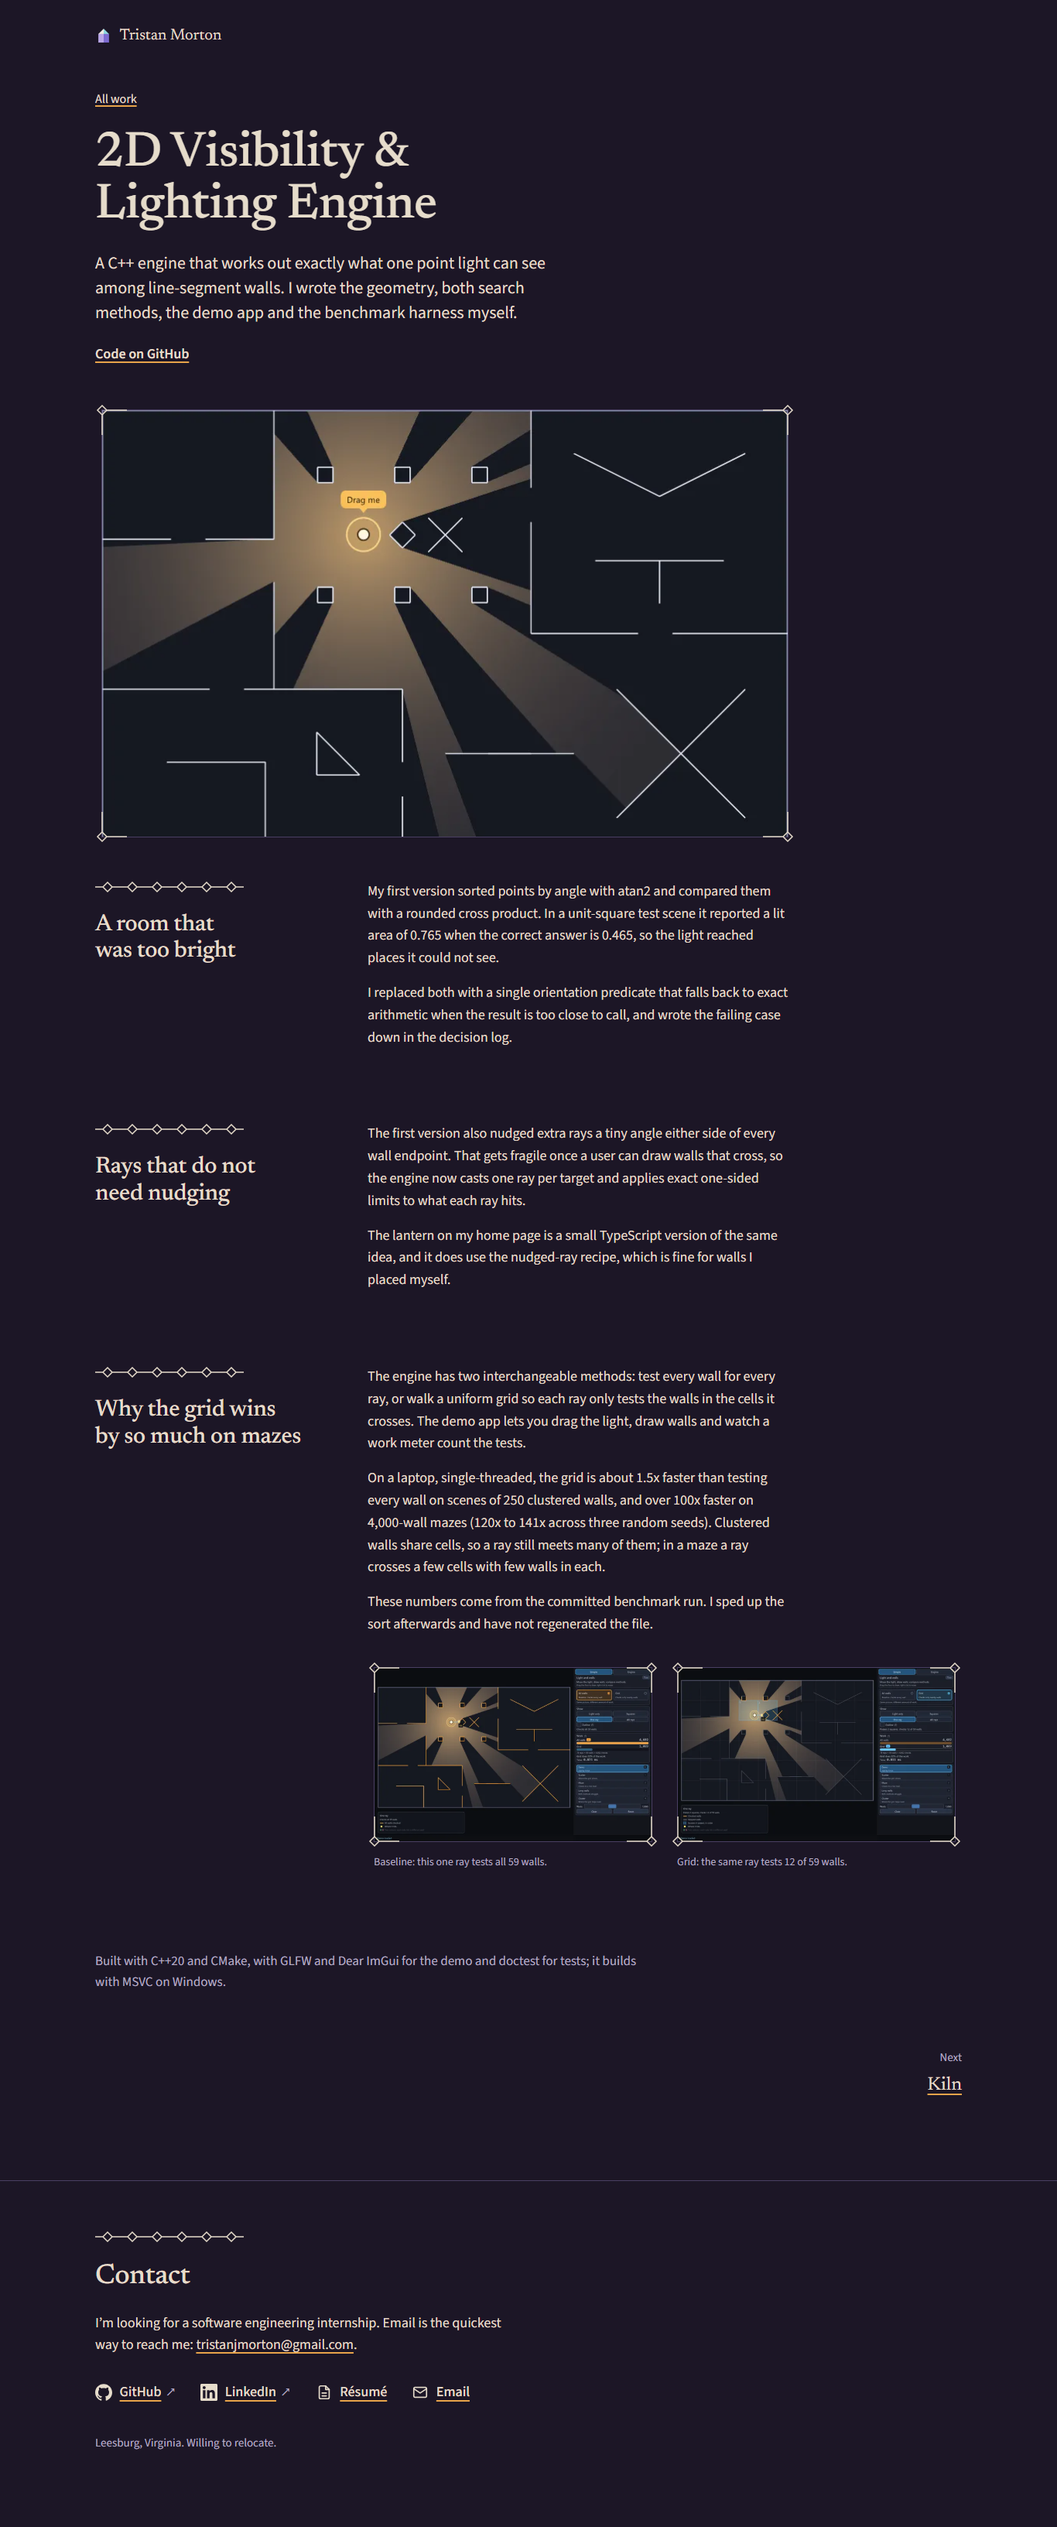
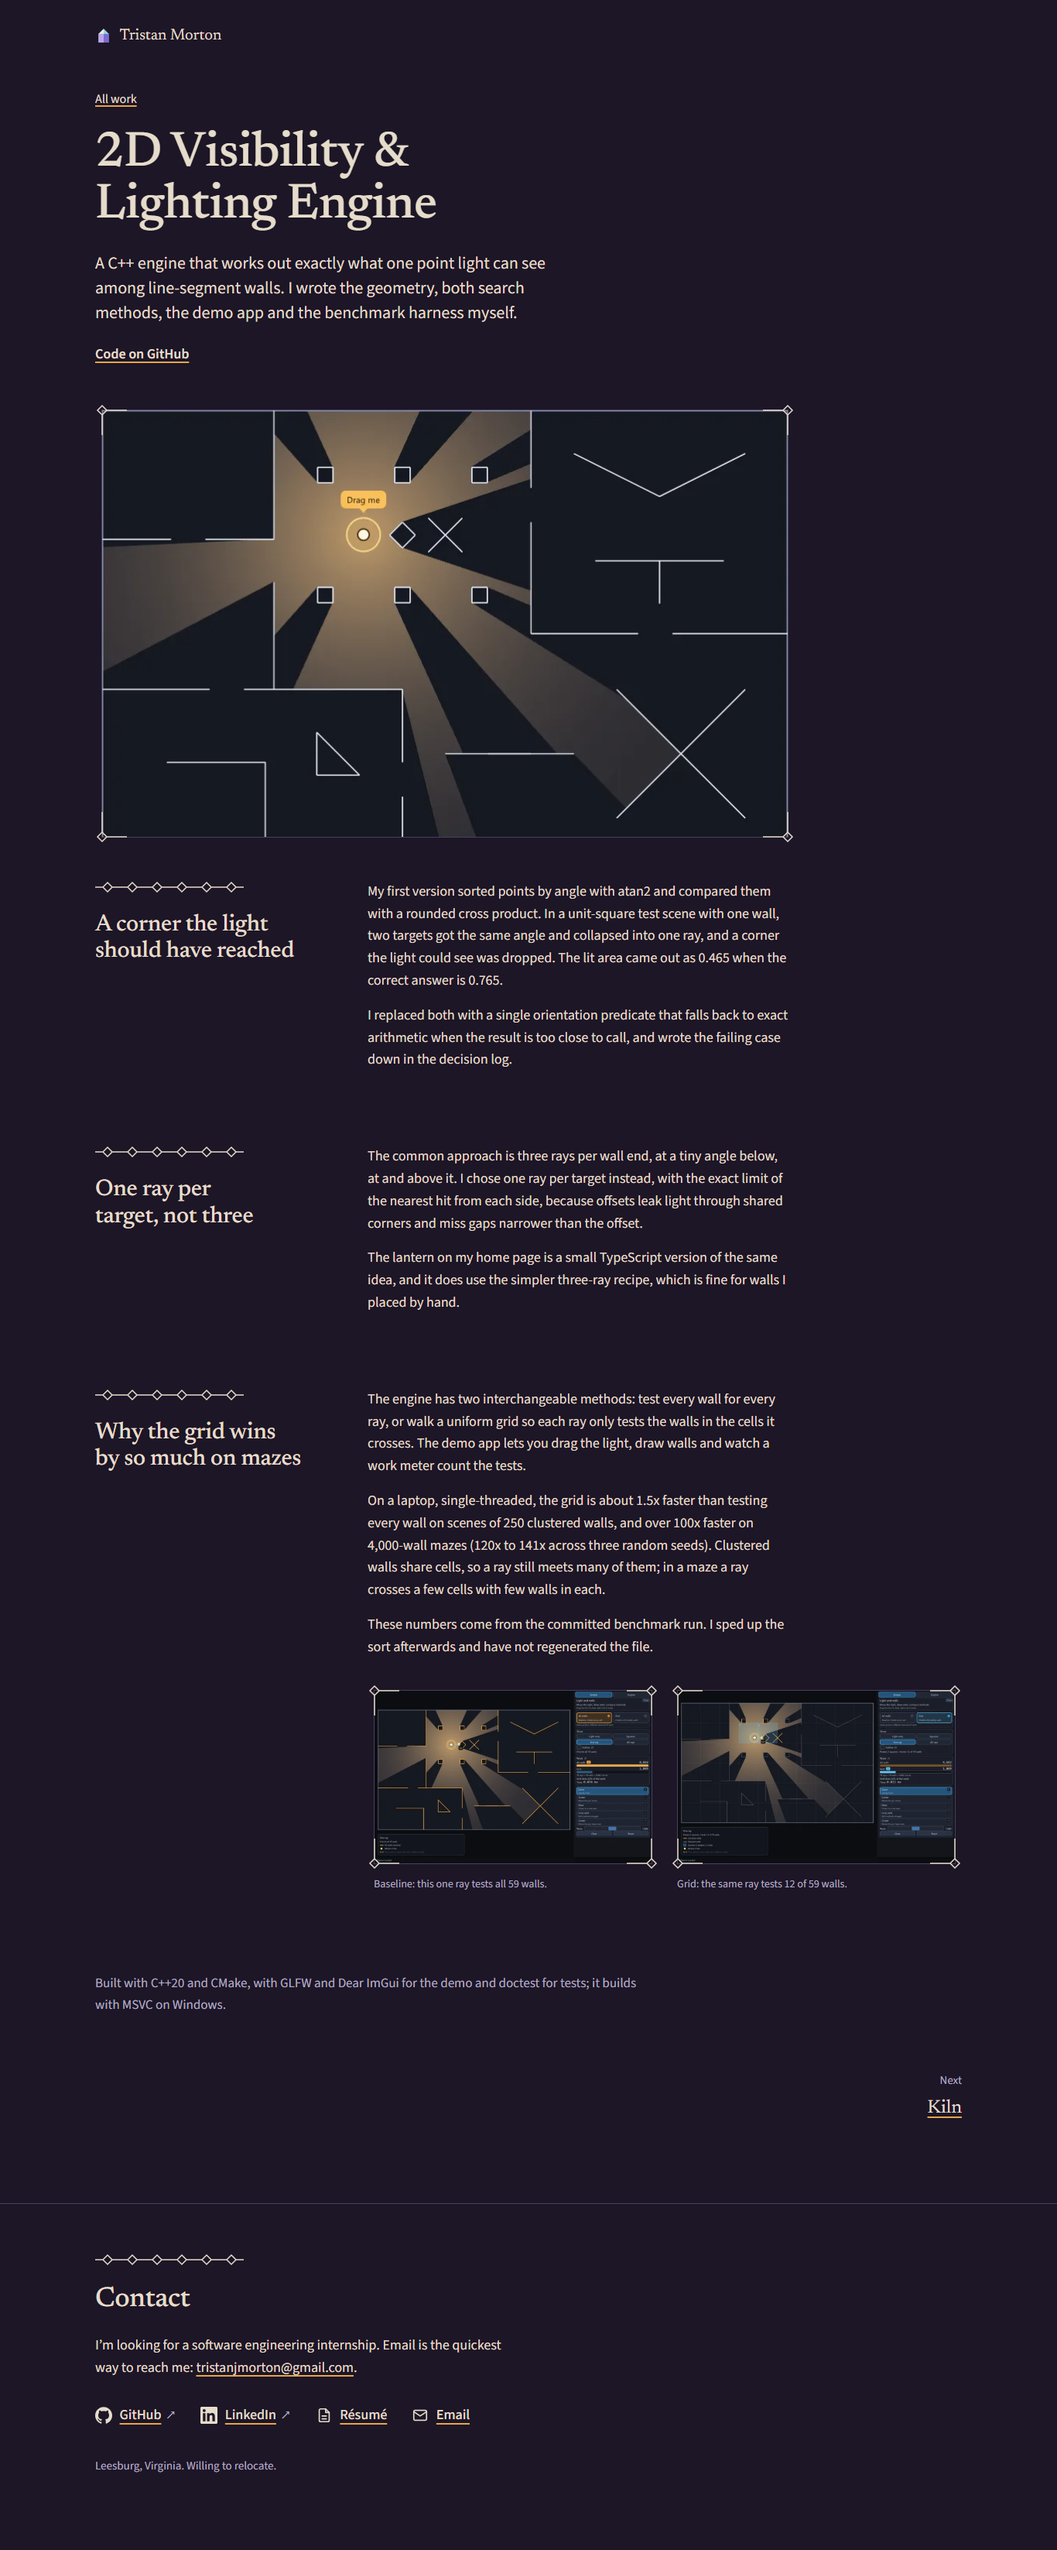
Light the near surfaces only, round the light's reach, fit the cornice and the phone fold, correct the engine copy

diff --git a/src/scene/geometry.ts b/src/scene/geometry.ts
@@ -67,6 +67,8 @@ export type Shape = {
   evenodd?: boolean;
   /** Blocks the lantern's light. */
   occlude?: boolean;
+  /** Never lit: the sky and the far skyline are out of the lantern's reach. */
+  unlitOnly?: boolean;
 };
 
 export type SceneId = 'wide' | 'narrow';
@@ -75,6 +77,8 @@ export type Scene = {
   id: SceneId;
   w: number;
   h: number;
+  /** Negative: how far the picture extends above y=0, so there is night sky above the cornice. */
+  top: number;
   shapes: Shape[];
   /** The light's outer ring (half strength) and core (full strength), as radii in scene units. */
   reach: { outer: number; inner: number };
@@ -161,6 +165,7 @@ type Spec = {
   id: SceneId;
   w: number;
   h: number;
+  top: number;
   floorY: number;
   springY: number;
   firstPillar: number;
@@ -196,11 +201,15 @@ function build(s: Spec): Scene {
   pillars.push(x);
 
   const shapes: Shape[] = [
-    { id: 'sky', tone: TONES.sky, rings: [rect(0, 0, w, h)] },
-    { id: 'skyline', tone: TONES.far, rings: [skyline(w, floorY, s.skyTop[0], s.skyTop[1], s.skySeed)] },
+    { id: 'sky', tone: TONES.sky, unlitOnly: true, rings: [rect(0, s.top, w, h - s.top)] },
+    { id: 'skyline', tone: TONES.far, unlitOnly: true, rings: [skyline(w, floorY, s.skyTop[0], s.skyTop[1], s.skySeed)] },
     { id: 'floor', tone: TONES.floor, rings: [rect(0, floorY, w, h - floorY)] },
-    { id: 'floor-joint', tone: TONES.floorAlt, rings: [rect(0, floorY + 40, w, 8), rect(0, floorY + 72, w, 8)] },
+    { id: 'floor-joint', tone: TONES.floorAlt, rings: [rect(0, floorY + 16, w, 8)] },
     { id: 'curb', tone: TONES.curb, rings: [rect(0, floorY, w, 8)] },
+    // A low garden wall behind the arcade: the surface that catches the pedestals' shadows.
+    { id: 'garden-wall', tone: TONES.wall, rings: [rect(0, floorY - 72, w, 72)] },
+    { id: 'garden-courses', tone: TONES.wallLight, rings: [rect(0, floorY - 56, w, 16), rect(0, floorY - 24, w, 16)] },
+    { id: 'garden-coping', tone: TONES.stone, rings: [rect(0, floorY - 80, w, 8)] },
   ];
 
   // Mid plane, behind the pillars: pedestals with urns, an obelisk and a crystal on a plinth. They cast the shadows.
@@ -321,6 +330,7 @@ function build(s: Spec): Scene {
     id: s.id,
     w,
     h,
+    top: s.top,
     shapes,
     reach: s.reach,
     lantern: { x: lb.cx + s.lanternDx, y: s.lanternY, minX: 48, maxX: w - 48, minY: s.lanternRange[0], maxY: s.lanternRange[1], rodY },
@@ -330,51 +340,53 @@ function build(s: Spec): Scene {
 export const wideScene = build({
   id: 'wide',
   w: 1280,
-  h: 384,
-  floorY: 312,
+  h: 312,
+  top: -24,
+  floorY: 280,
   springY: 168,
   firstPillar: 24,
   bayWidths: [112, 144, 128, 208, 128, 144, 112],
   pedestals: [
-    { kind: 'urn', bay: 1, dx: 24, height: 88 },
-    { kind: 'plinth', bay: 2, dx: 0, height: 64 },
-    { kind: 'obelisk', bay: 4, dx: -8, height: 104 },
-    { kind: 'urn', bay: 6, dx: 8, height: 72 },
+    { kind: 'urn', bay: 1, dx: 24, height: 72 },
+    { kind: 'plinth', bay: 2, dx: 0, height: 48 },
+    { kind: 'obelisk', bay: 4, dx: -8, height: 88 },
+    { kind: 'urn', bay: 6, dx: 8, height: 64 },
   ],
-  banner: { bay: 5, dx: 16, length: 96 },
+  banner: { bay: 5, dx: 16, length: 80 },
   weathered: 2,
   skySeed: 7,
-  skyTop: [184, 256],
+  skyTop: [128, 176],
   lanternBay: 3,
   lanternDx: 24,
-  lanternY: 216,
-  lanternRange: [208, 256],
+  lanternY: 208,
+  lanternRange: [196, 240],
   cornice: true,
-  reach: { outer: 512, inner: 288 },
+  reach: { outer: 224, inner: 120 },
 });
 
 export const narrowScene = build({
   id: 'narrow',
   w: 368,
-  h: 416,
-  floorY: 344,
-  springY: 200,
+  h: 328,
+  top: -24,
+  floorY: 296,
+  springY: 184,
   firstPillar: 8,
   bayWidths: [112, 144],
   pedestals: [
-    { kind: 'plinth', bay: 0, dx: 16, height: 72 },
-    { kind: 'obelisk', bay: 1, dx: 40, height: 112 },
+    { kind: 'plinth', bay: 0, dx: 16, height: 48 },
+    { kind: 'obelisk', bay: 1, dx: 40, height: 80 },
   ],
-  banner: { bay: 0, dx: -32, length: 80 },
+  banner: { bay: 0, dx: -32, length: 64 },
   weathered: 0,
   skySeed: 21,
-  skyTop: [216, 280],
+  skyTop: [152, 208],
   lanternBay: 1,
   lanternDx: -8,
-  lanternY: 248,
-  lanternRange: [240, 288],
+  lanternY: 224,
+  lanternRange: [212, 252],
   cornice: true,
-  reach: { outer: 352, inner: 192 },
+  reach: { outer: 112, inner: 64 },
 });
 
 export const scenes = { wide: wideScene, narrow: narrowScene } as const;
@@ -412,11 +424,11 @@ export function occluders(scene: Scene, light: Point): Segment[] {
 }
 
 export function sceneBounds(scene: Scene): Rect {
-  return { x: 0, y: 0, w: scene.w, h: scene.h };
+  return { x: 0, y: scene.top, w: scene.w, h: scene.h - scene.top };
 }
 
 /** How far the light reaches, as a stepped disc with big deliberate steps. */
-export const LIGHT_STEP = 32;
+export const LIGHT_STEP = 8;
 
 /** Stepped disc around the origin. Rows and half-widths are multiples of `step`. */
 export function steppedDisc(r: number, step: number): Point[] {

diff --git a/src/content/projects.ts b/src/content/projects.ts
@@ -63,17 +63,17 @@ export const projects: Project[] = [
     lead: 0,
     sections: [
       {
-        title: 'A room that was too bright',
+        title: 'A corner the light should have reached',
         body: [
-          'My first version sorted points by angle with atan2 and compared them with a rounded cross product. In a unit-square test scene it reported a lit area of 0.765 when the correct answer is 0.465, so the light reached places it could not see.',
+          'My first version sorted points by angle with atan2 and compared them with a rounded cross product. In a unit-square test scene with one wall, two targets got the same angle and collapsed into one ray, and a corner the light could see was dropped. The lit area came out as 0.465 when the correct answer is 0.765.',
           'I replaced both with a single orientation predicate that falls back to exact arithmetic when the result is too close to call, and wrote the failing case down in the decision log.',
         ],
       },
       {
-        title: 'Rays that do not need nudging',
+        title: 'One ray per target, not three',
         body: [
-          'The first version also nudged extra rays a tiny angle either side of every wall endpoint. That gets fragile once a user can draw walls that cross, so the engine now casts one ray per target and applies exact one-sided limits to what each ray hits.',
-          'The lantern on my home page is a small TypeScript version of the same idea, and it does use the nudged-ray recipe, which is fine for walls I placed myself.',
+          'The common approach is three rays per wall end, at a tiny angle below, at and above it. I chose one ray per target instead, with the exact limit of the nearest hit from each side, because offsets leak light through shared corners and miss gaps narrower than the offset.',
+          'The lantern on my home page is a small TypeScript version of the same idea, and it does use the simpler three-ray recipe, which is fine for walls I placed by hand.',
         ],
       },
       {

diff --git a/src/scene/SceneMarkup.tsx b/src/scene/SceneMarkup.tsx
@@ -19,6 +19,7 @@ function paint(shape: Shape, i: 0 | 1 | 2) {
 export function SceneMarkup({ scene, className, width, height }: { scene: Scene; className?: string; width?: number; height?: number }) {
   const id = scene.id;
   const { x, y, rodY } = scene.lantern;
+  const lit = scene.shapes.filter((s) => !s.unlitOnly);
   const outer = toPoints(steppedDisc(scene.reach.outer, LIGHT_STEP));
   const inner = toPoints(steppedDisc(scene.reach.inner, LIGHT_STEP));
   return (
@@ -26,8 +27,8 @@ export function SceneMarkup({ scene, className, width, height }: { scene: Scene;
       className={className}
       width={width}
       height={height}
-      viewBox={`0 0 ${scene.w} ${scene.h}`}
-      preserveAspectRatio="xMidYMid slice"
+      viewBox={`0 ${scene.top} ${scene.w} ${scene.h - scene.top}`}
+      preserveAspectRatio="xMidYMax slice"
       aria-hidden="true"
       focusable="false"
       data-scene={id}
@@ -54,12 +55,12 @@ export function SceneMarkup({ scene, className, width, height }: { scene: Scene;
       </g>
       <g clipPath={`url(#${id}-poly)`}>
         <g clipPath={`url(#${id}-outer)`}>
-          {scene.shapes.map((s) => (
+          {lit.map((s) => (
             <use key={s.id} href={`#${id}-${s.id}`} {...paint(s, 2)} />
           ))}
         </g>
         <g clipPath={`url(#${id}-inner)`}>
-          {scene.shapes.map((s) => (
+          {lit.map((s) => (
             <use key={s.id} href={`#${id}-${s.id}`} {...paint(s, 1)} />
           ))}
         </g>

diff --git a/src/scene/LanternScene.module.css b/src/scene/LanternScene.module.css
@@ -1,5 +1,6 @@
 .figure {
-  margin: 0;
+  /* the scene and its caption become flex items of the hero, so small screens can reorder them */
+  display: contents;
 }
 
 .scene {
@@ -8,6 +9,7 @@
   touch-action: pan-y;
   background: var(--surface);
   cursor: crosshair;
+  order: 0;
 }
 
 .scene:focus-visible {
@@ -21,12 +23,12 @@
 }
 
 .wide {
-  height: min(30vw, 46svh);
+  height: min(26.25vw, 46svh);
 }
 
 .narrow {
   display: none;
-  height: min(113vw, 46svh);
+  height: min(95.7vw, 44svh);
 }
 
 @media (max-width: 699.98px) {
@@ -39,10 +41,20 @@
 }
 
 .caption {
+  order: 1;
+  width: 100%;
   max-width: var(--page);
   margin: var(--space-3) auto 0;
   padding: 0 var(--gutter);
   font-size: 0.875rem;
   line-height: 1.5;
   color: var(--text-muted);
+}
+
+@media (max-width: 699.98px) {
+  /* on a phone the caption follows the introduction and the links */
+  .caption {
+    order: 3;
+    margin-top: var(--space-2);
+  }
 }

diff --git a/src/app/opengraph-image.tsx b/src/app/opengraph-image.tsx
@@ -13,8 +13,8 @@ export default function OpenGraphImage() {
   return new ImageResponse(
     (
       <div style={{ width: '100%', height: '100%', display: 'flex', flexDirection: 'column', background: '#1c1626', color: '#e6dccb' }}>
-        {SceneMarkup({ scene: wideScene, width: 1200, height: 372 })}
-        <div style={{ display: 'flex', flexDirection: 'column', padding: '28px 64px 0', gap: 8 }}>
+        {SceneMarkup({ scene: wideScene, width: 1200, height: 315 })}
+        <div style={{ display: 'flex', flexDirection: 'column', padding: '48px 64px 0', gap: 8 }}>
           <div style={{ fontSize: 84, lineHeight: 1.05, display: 'flex' }}>{site.name}</div>
           <div style={{ fontSize: 32, color: '#b5abc2', display: 'flex' }}>Software engineering student</div>
         </div>

diff --git a/src/scene/scene.test.ts b/src/scene/scene.test.ts
@@ -38,7 +38,8 @@ describe.each(Object.keys(scenes) as SceneId[])('%s scene', (id) => {
   it('casts a shadow: a point just behind a pedestal is outside the polygon', () => {
     const light = scene.lantern;
     const poly = litPolygon(scene, light);
-    const pedestal = scene.shapes.find((s) => s.occlude && s.id.startsWith('pedestal'));
+    const dist = (s: (typeof scene.shapes)[number]) => Math.hypot(s.rings[0][0].x - light.x, s.rings[0][0].y - light.y);
+    const pedestal = scene.shapes.filter((s) => s.occlude && s.id.startsWith('pedestal')).sort((a, b) => dist(a) - dist(b))[0];
     expect(pedestal).toBeDefined();
     const pts = pedestal!.rings[0];
     const cx = pts.reduce((a, p) => a + p.x, 0) / pts.length;

diff --git a/src/scene/light.ts b/src/scene/light.ts
@@ -4,7 +4,8 @@ import { occluders, sceneBounds, scenes, type Scene, type SceneId } from './geom
 /** The lit polygon for a lantern at `light`, limited to the lantern's reach so far walls are not scanned. */
 export function litPolygon(scene: Scene, light: Point): Point[] {
   const full = sceneBounds(scene);
-  const reach = scene.reach.outer;
+  // The bounding rectangle lies outside the stepped disc, so its edges are never visible.
+  const reach = scene.reach.outer + 16;
   const x = Math.max(full.x, light.x - reach);
   const y = Math.max(full.y, light.y - reach);
   const x2 = Math.min(full.x + full.w, light.x + reach);

diff --git a/src/app/page.module.css b/src/app/page.module.css
@@ -1,5 +1,12 @@
 .hero {
+  display: flex;
+  flex-direction: column;
   padding-bottom: var(--space-4);
+}
+
+.hero > :global(.wrap) {
+  order: 2;
+  width: 100%;
 }
 
 .heroGrid {
@@ -32,6 +39,18 @@
   line-height: 1.5;
   max-width: 36rem;
   margin-bottom: var(--space-1);
+}
+
+.links {
+  justify-self: stretch;
+}
+
+@media (max-width: 699.98px) {
+  /* on a phone the links come straight after the introduction and the note follows them */
+  .note {
+    order: 2;
+    margin: var(--space-1) 0 0;
+  }
 }
 
 .facts dl {

diff --git a/src/app/page.tsx b/src/app/page.tsx
@@ -25,7 +25,9 @@ export default function Home() {
                 The light above is worked out the way the C++ visibility engine I wrote does it, so you can move the lantern
                 and the shadows follow.
               </p>
-              <ContactLinks label="Links" />
+              <div className={styles.links}>
+                <ContactLinks label="Links" />
+              </div>
             </div>
             <div className={styles.facts}>
               <span className="rule" aria-hidden="true" />

diff --git a/docs/DESIGN.md b/docs/DESIGN.md
@@ -10,8 +10,8 @@ Without JavaScript the scene is still complete, because the polygon for the defa
 
 - Flat cut-shape vector art in inline SVG. Hard edges, flat fills. No gradients, blur, glow, filters or drop shadows on art.
 - Everything sits on an 8-unit grid. Arches are stepped semicircles on that grid; other diagonals are 45 degrees (obelisk tips, the banner tail, capitals).
-- Depth comes from stacked flat layers, back to front: sky, far skyline, mid-plane objects (pedestals, an obelisk, a crystal on a plinth, one banner), the iron rod, and the near frame (wall, voussoir rings, pillars).
-- **Lit and unlit palettes.** Every shape has two fills, a cool night colour and a warm lantern colour, chosen by hand so each surface keeps its own hue (indigo sky becomes mauve dusk, slate skyline becomes clay, masonry becomes sandstone, plum cloth becomes rose, teal curb stays teal-green). The scene is drawn twice. The lit copy is shown only inside two nested clip paths: the visibility polygon, and a stepped disc (the light's reach). A second, wider disc shows a half-lit copy (the two palettes mixed 50/50), so the light falls off in one big deliberate step instead of a ramp. The edge between lit and shadow is the polygon edge, crisp and exact.
+- Depth comes from stacked flat layers, back to front: sky, far skyline, a low garden wall that catches shadows, mid-plane objects (pedestals, an obelisk, a crystal on a plinth, one banner), the iron rod, and the near frame (wall, voussoir rings, pillars). The picture has a strip of night sky above the cornice.
+- **Lit and unlit palettes.** Every near shape has two fills, a cool night colour and a warm lantern colour, chosen by hand so each surface keeps its own hue (masonry becomes sandstone, plum cloth becomes rose, the teal curb stays teal-green). The scene is drawn twice. The lit copy is shown only inside two nested clip paths: the visibility polygon, and a stepped disc on the 8-unit grid (the light's reach, 224 units on the wide scene). A second, smaller disc shows full strength and the ring between them shows a half-lit copy (the two palettes mixed 50/50), so the light falls off in one deliberate step. The polygon's bounding rectangle lies outside the disc, so its edges never show. The sky and the far skyline are never lit: a lantern cannot light them, so through every bay you see cool night beyond warm stone. The edge between lit and shadow is the polygon edge, crisp and exact.
 - Crystal appears in two places only: the prism cluster on its plinth and the facet mark (favicon and the small logo). Each facet is one flat fill from the five facet colours; in shadow the same facet is mixed 55% toward night plum.
 - Embroidery (small hollow diamonds joined by thin lines) is the only ornament: section rules, corner brackets on screenshots, and the one banner in the scene. One stroke weight.
 - Amber means "lit" or "you can act on this": the lantern glass, link underlines and focus rings.
@@ -23,8 +23,8 @@ Illustration colours (`TONES` in `src/scene/geometry.ts`), unlit and lit:
 
 | Surface | Unlit | Lit |
 |---|---|---|
-| Sky | `#2a2440` | `#7a5578` |
-| Far skyline | `#3d4a5c` | `#a98270` |
+| Sky (never lit) | `#2a2440` | none |
+| Far skyline (never lit) | `#3d4a5c` | none |
 | Wall | `#2a2f45` | `#b88e69` |
 | Stone (voussoirs, abacus) | `#3c445f` | `#d7b185` |
 | Pillar shaft, mid / lit strip | `#323953` / `#444d68` | `#c79d72` / `#e6c394` |
@@ -56,7 +56,7 @@ Newsreader (serif) for the name and headings, Source Sans 3 for body and interfa
 
 ## Layout
 
-- Home: the scene, then the name, a two-sentence introduction, one line about the scene, the four icon links (icon plus word), and from 1100 px a quiet column of facts (studying, working, based). All of it fits in the first screen at 1366x768. Then Selected work, More work, Experience, About and a Contact footer.
+- Home: the scene, then the name, a two-sentence introduction, one line about the scene, the four icon links (icon plus word), and from 1100 px a quiet column of facts (studying, working, based). All of it fits in the first screen at 1366x768. On a phone the links follow the introduction directly, then the line about the scene, then the caption; all four links are visible at 390x844. Then Selected work, More work, Experience, About and a Contact footer.
 - Selected work alternates image and text. Each image is about 36 rem wide on desktop and full width on a phone. Each project has one tab stop, its title; the image is a mouse-only link.
 - Case studies open with a lead image and a two-sentence standfirst (side by side for some projects, stacked for others), then sections titled by what they say, then one closing sentence about the stack.
 - The scene has two arrangements: a wide one (seven unequal bays, one wider central bay) and a two-bay one for screens under 700 px, built from the same data and the same visibility function.
